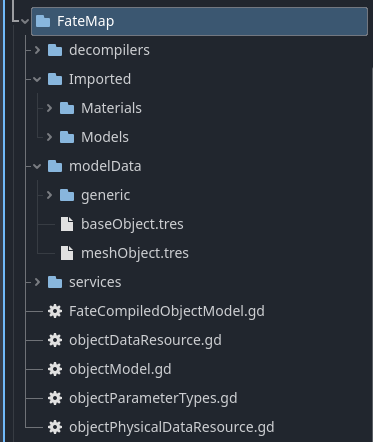
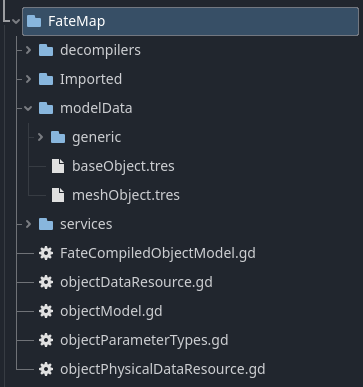
basic setup of initial docs for fatemaps

Changed region(s): [[0.0, 0.0, 1.0, 1.0]]

diff --git a/docs/maploader.md b/docs/maploader.md
@@ -12,10 +12,14 @@ Once you install and add them to your project they should appear as follows.
 Any 3d models you intend to place on a map using the map maker are placed into the Models folder.
 Any textures/materials you intend to apply to the map in the mapmaker should be placed into Materials folder. You must create a .FMT file for the mapmaker to use them. [FMT](#FMT files)
 
+Once added, go into the ```FateMap/decompilers/compiled``` folder. depending on versions, you may have more loaders. different version loaders are not guaranteed to work on different versions of maps.
+Add a node3D to your scene in Godot and give it the loader's script. it should have a parameter whe you select it for a target file. If you already have a compiled ```.fatemap``` file you can set it to the file path for it. A version mismatch can cause it to fail to load if you try. Otherwise, loading a map in the editor or game will recreate the map with all the compile settings used.
 
 ### FMT files
 
 An fmt file is a Fate Material file containing the info the maploader and maker use to track and manage materials and texture options for a given map.
+
+To add a new FMT to your project that the mapmaker can see, in your game project, add the ```.fmt``` file anywhere inside the ```Imported/materials``` folder.
 The format is shown below.
 ```
 name = NONE
@@ -25,3 +29,10 @@ parameters = {}
 tags = []
 ```
 
+```name``` is the name of the material as shown in the mapmaker
+```material``` can be a ```ShaderMaterial``` ```StandardMaterial``` or any other godot material.
+```texture``` is both the image shown in the mapmaker and the texture that is used as the ```albedo_texture``` of any materials.
+```parameters``` contains special info/additional parameters for the material
+```tags``` are a tag used by the editor for setting if a material is skipped when compiling for rendering and/or collision.
+
+all paths inside an FMT are read as relative to the ```Imported``` folder.

diff --git a/docs/mapmaker.md b/docs/mapmaker.md
@@ -4,4 +4,9 @@
 After installing Enter project settings and go to/add a setting Called ```fatemap/project_directory```.
 Set it's file path to the root folder of the project you are creating maps for.
 ![Project settings image](images/mapmaker_projectsetting_targetproject.png)
-Make sure your target project has been setup as well. [setting up project](maploader.md#setup)
+Make sure your target project has been set up as well. [setting up a project](maploader.md#setup)
+
+### Map files
+
+The mapmaker is meant as a frontend to creating/modifying maps ```.FMPE``` files. A compiled map becomes a ```.fatemap``` and is a different format.
+```.FMPE``` files keep the full data and are a larger file size than ```.fatemap``` files. ```.fatemap``` files remove unneeded data that is only required during editing to reduce load time and file size.
